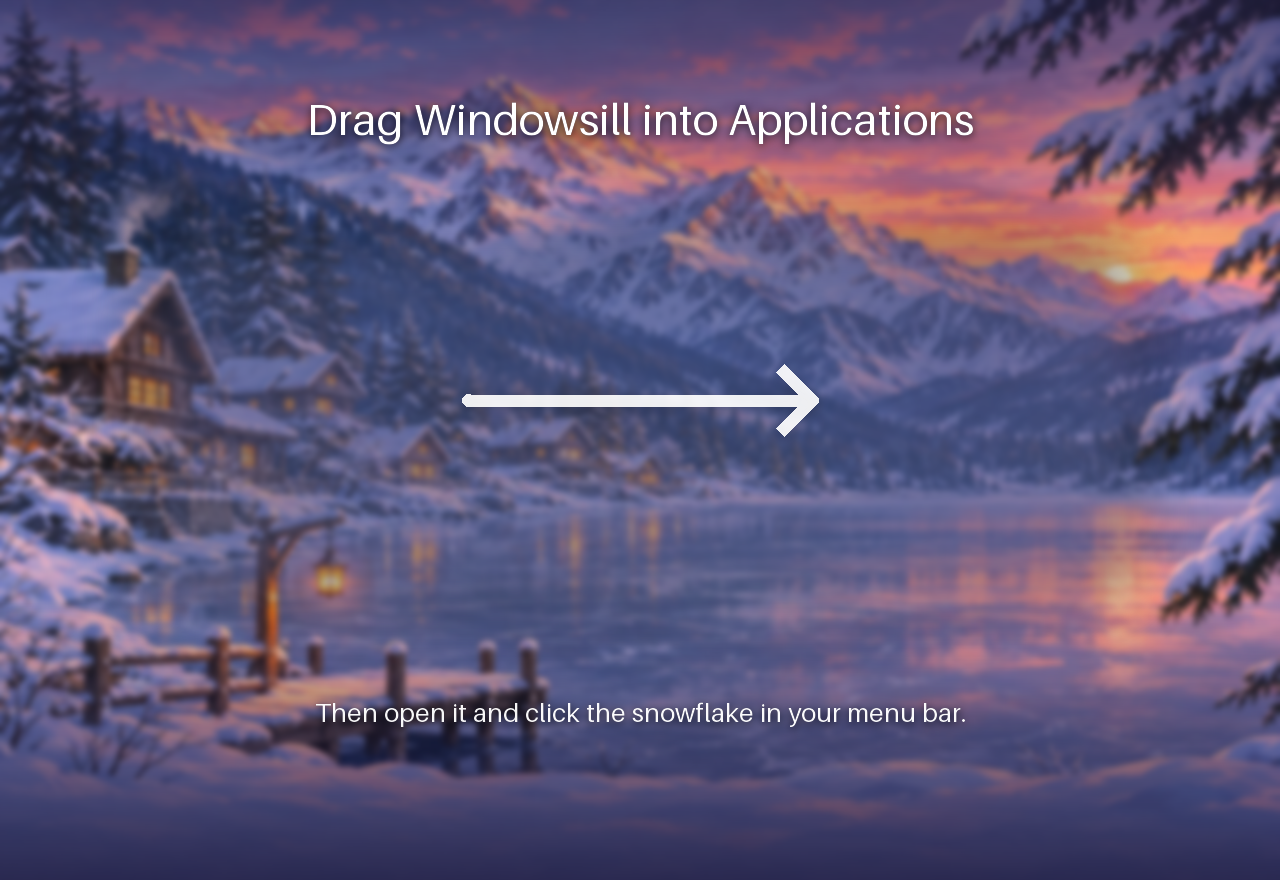
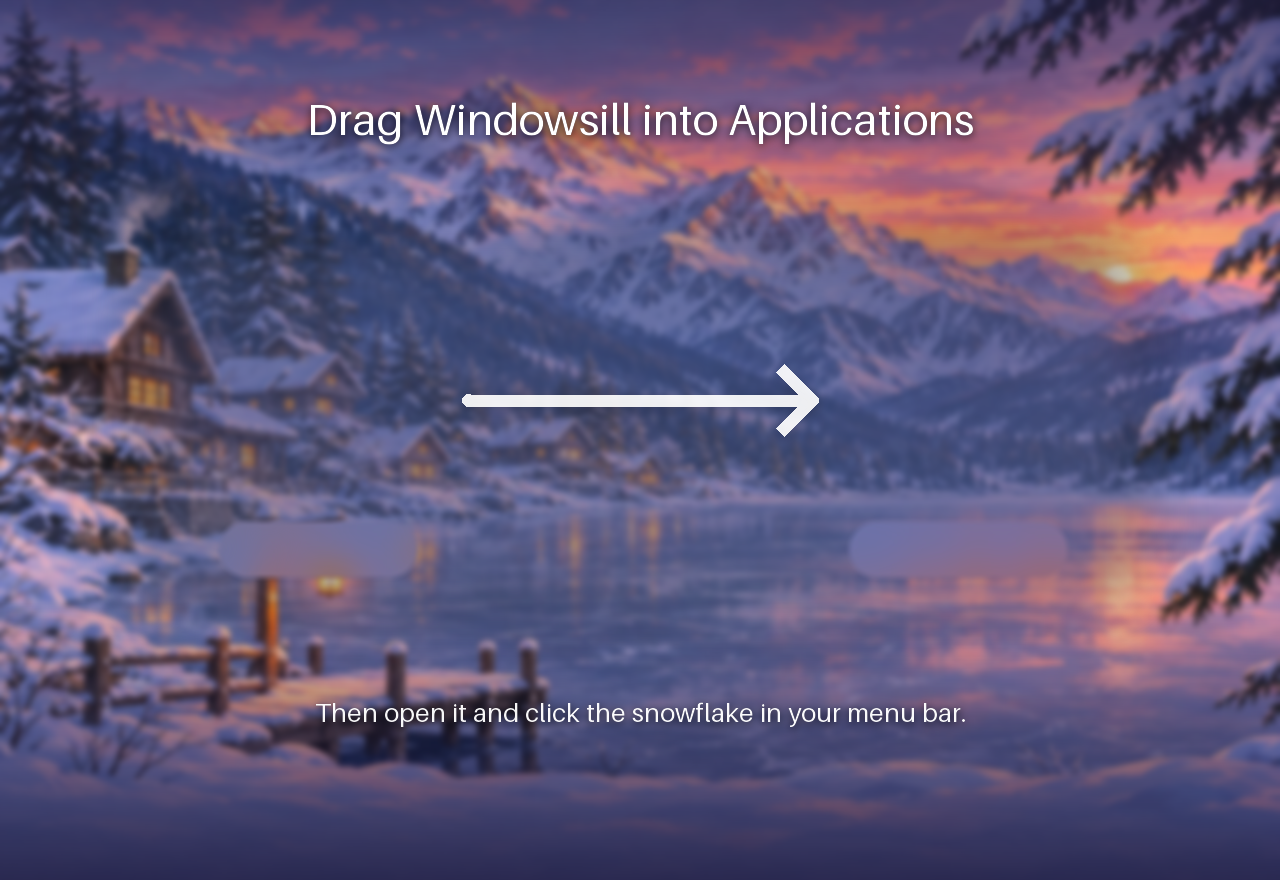
fix: golden hour shows the evening painting; installer names read at 4.5:1 in Light and Dark [skip ci]
Golden hour (the afternoon sun under 15 degrees) showed the midday
painting, a bright blue sky under weather lit by a low warm sun. It
now shows the evening painting, as sunset and dusk do; the self-check
covers it.

Finder writes the names under the disk image's two icons black in
Light mode and white in Dark mode. Behind them the painting measured
1.8 to 3.6:1 against black. Under each name it is now blurred into a
soft capsule at relative luminance 0.179, the one tone both colours
read on at 4.5:1 or better (measured 4.55 worst, both), hue kept.

Changed region(s): [[0.1562, 0.583, 0.3438, 0.675], [0.6562, 0.583, 0.8125, 0.6443]]

diff --git a/Sources/Windowsill/SelfCheck.swift b/Sources/Windowsill/SelfCheck.swift
@@ -302,7 +302,8 @@ enum SelfCheck {
         check((0..<5).map { _ in a.next() } == (0..<5).map { _ in b.next() }, "SplitMix64 is not deterministic")
 
         // Clock to painting: every time of day has one, and the obvious ones are right.
-        check(TimeOfDay.midday.light == .day && TimeOfDay.sunset.light == .evening && TimeOfDay.night.light == .night,
+        check(TimeOfDay.midday.light == .day && TimeOfDay.golden.light == .evening && TimeOfDay.sunset.light == .evening
+              && TimeOfDay.night.light == .night,
               "time of day maps to the wrong painting")
 
         // Every shipped painting is in the bundle, decodes, is big enough for a desktop and is darker at night.

diff --git a/Sources/Windowsill/Wallpaper.swift b/Sources/Windowsill/Wallpaper.swift
@@ -8,8 +8,9 @@ enum Light: String, CaseIterable { case day, evening, night }
 extension TimeOfDay {
     var light: Light {
         switch self {
-        case .morning, .midday, .golden: return .day
-        case .dawn, .sunrise, .sunset, .dusk: return .evening
+        case .morning, .midday: return .day
+        // Golden hour's low warm sun is the evening painting's, not the midday blue sky's (CI review, 2026-11-20).
+        case .dawn, .sunrise, .golden, .sunset, .dusk: return .evening
         case .night: return .night
         }
     }
